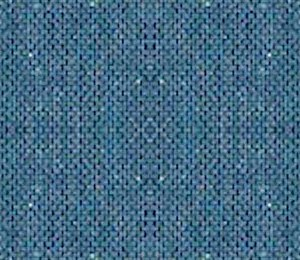
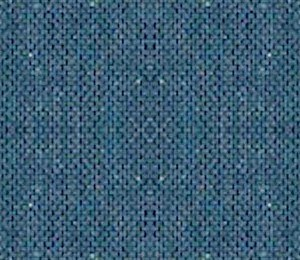
fix(chrome): darker cloth dyes, finer weave (170px tile), cache-busted tiles
Claude-Session: https://claude.ai/code/session_01EZuMz7NY3623vJ4Xo7vnss

diff --git a/web/css/chrome.css b/web/css/chrome.css
@@ -122,16 +122,16 @@ a#brand, a#brand:visited { color: inherit; }
   /* Defined HERE (not via JS inline style) so the url() base is this
      stylesheet in every engine → ../img works in dev and under the
      /manuscripts/ prod prefix alike. chrome.js picks the class. */
-  --cloth-img: url("../img/cloth-blue.jpg");
+  --cloth-img: url("../img/cloth-blue.jpg?v=2");
   --cloth-dye: #456982;
   --gold: #d3c08c;
 }
-html.cloth-red { --cloth-img: url("../img/cloth-red.jpg"); }
-html.cloth-green { --cloth-img: url("../img/cloth-green.jpg"); }
-html.cloth-blue { --cloth-img: url("../img/cloth-blue.jpg"); }
+html.cloth-red { --cloth-img: url("../img/cloth-red.jpg?v=2"); }
+html.cloth-green { --cloth-img: url("../img/cloth-green.jpg?v=2"); }
+html.cloth-blue { --cloth-img: url("../img/cloth-blue.jpg?v=2"); }
 #controls {
   background: var(--cloth-img) repeat fixed, var(--cloth-dye);
-  background-size: 260px auto;
+  background-size: 170px auto;
 }
 #controls #gs-input {
   background-color: rgba(253, 250, 242, 0.94);
@@ -199,7 +199,7 @@ html.embedded, html.embedded.has-ms-tabs { --tabs-h: -52px; }
      rule — a painted line the active tab alone overlaps (the open page
      breaks the gilding). */
   background: linear-gradient(to top, var(--gold) 1px, #0000 1px), var(--cloth-img) repeat fixed, var(--cloth-dye);
-  background-size: auto, 260px auto, auto;
+  background-size: auto, 170px auto, auto;
   display: flex;
   align-items: stretch;
   padding: 0 12px;

diff --git a/web/settings.html b/web/settings.html
@@ -5,7 +5,7 @@
   <meta name="viewport" content="width=device-width, initial-scale=1.0">
   <title>Settings — Manuscript Studio</title>
   <link rel="stylesheet" href="css/book.css?v=197">
-  <link rel="stylesheet" href="css/chrome.css?v=17">
+  <link rel="stylesheet" href="css/chrome.css?v=18">
   <link rel="stylesheet" href="css/home.css?v=33">
   <!-- Pane-widget layout (sn-cols/rails) for the suggested-edit history
        dialog — same sheet the book page loads. -->
@@ -15,7 +15,7 @@
 
   <!-- Shared top bar — filled synchronously by chrome.js (must load right here). -->
   <div id="controls" class="pagedjs_ignore"></div>
-  <script src="js/chrome.js?v=3"></script>
+  <script src="js/chrome.js?v=4"></script>
   <script src="js/tabs.js?v=8"></script>
 
   <main class="home-main" id="settings-root">

diff --git a/web/index.html b/web/index.html
@@ -13,7 +13,7 @@
   <!-- Book-style CSS -->
   <link rel="stylesheet" href="css/book.css?v=197">
   <link rel="stylesheet" href="scratchpad/scratchpad.css?v=68">
-  <link rel="stylesheet" href="css/chrome.css?v=17">
+  <link rel="stylesheet" href="css/chrome.css?v=18">
 
   <!-- Paged.js for book pagination - loaded but not auto-run -->
   <script>
@@ -30,7 +30,7 @@
   <!-- Top bar (not paginated) — shared, filled synchronously by chrome.js.
        data-extras adds this page's cheatsheet toggle to the right group. -->
   <div id="controls" class="pagedjs_ignore" data-extras="cheatsheet"></div>
-  <script src="js/chrome.js?v=3"></script>
+  <script src="js/chrome.js?v=4"></script>
   <script src="js/tabs.js?v=8"></script>
 
   <!-- Syntax cheatsheet: slide-in right panel toggled by #cheatsheet-icon -->

diff --git a/web/home.html b/web/home.html
@@ -10,14 +10,14 @@
   <link rel="preconnect" href="https://fonts.gstatic.com" crossorigin>
   <link href="https://fonts.googleapis.com/css2?family=Caveat:wght@400;600&display=swap" rel="stylesheet">
   <link rel="stylesheet" href="css/book.css?v=197">
-  <link rel="stylesheet" href="css/chrome.css?v=17">
+  <link rel="stylesheet" href="css/chrome.css?v=18">
   <link rel="stylesheet" href="css/home.css?v=34">
 </head>
 <body class="home-page">
 
   <!-- Shared top bar — filled synchronously by chrome.js (must load right here). -->
   <div id="controls" class="pagedjs_ignore"></div>
-  <script src="js/chrome.js?v=3"></script>
+  <script src="js/chrome.js?v=4"></script>
   <script src="js/tabs.js?v=8"></script>
 
   <main class="home-main" id="home-root">

diff --git a/web/js/chrome.js b/web/js/chrome.js
@@ -22,7 +22,7 @@
   // The tile url() literals live in chrome.css (a url() smuggled through an
   // inline-style custom property resolves against the STYLESHEET base in
   // Chromium and the document base in Firefox — a class dodges both).
-  const DYES = { red: '#8f676f', green: '#529576', blue: '#456982' };
+  const DYES = { red: '#7e5a62', green: '#488367', blue: '#3d5c73' };
   const dye = Object.keys(DYES)[Math.floor(Math.random() * 3)];
   document.documentElement.classList.add('cloth-' + dye);
   document.documentElement.style.setProperty('--cloth-dye', DYES[dye]);
